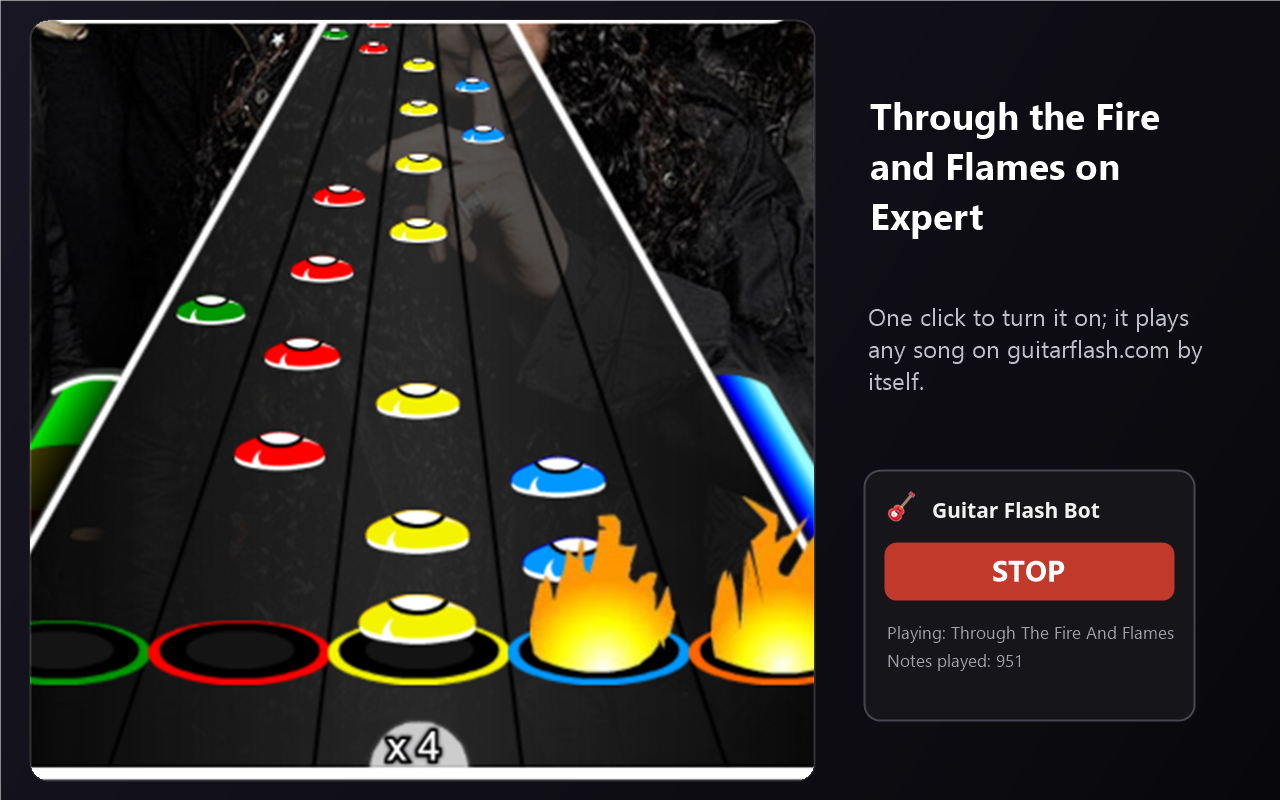
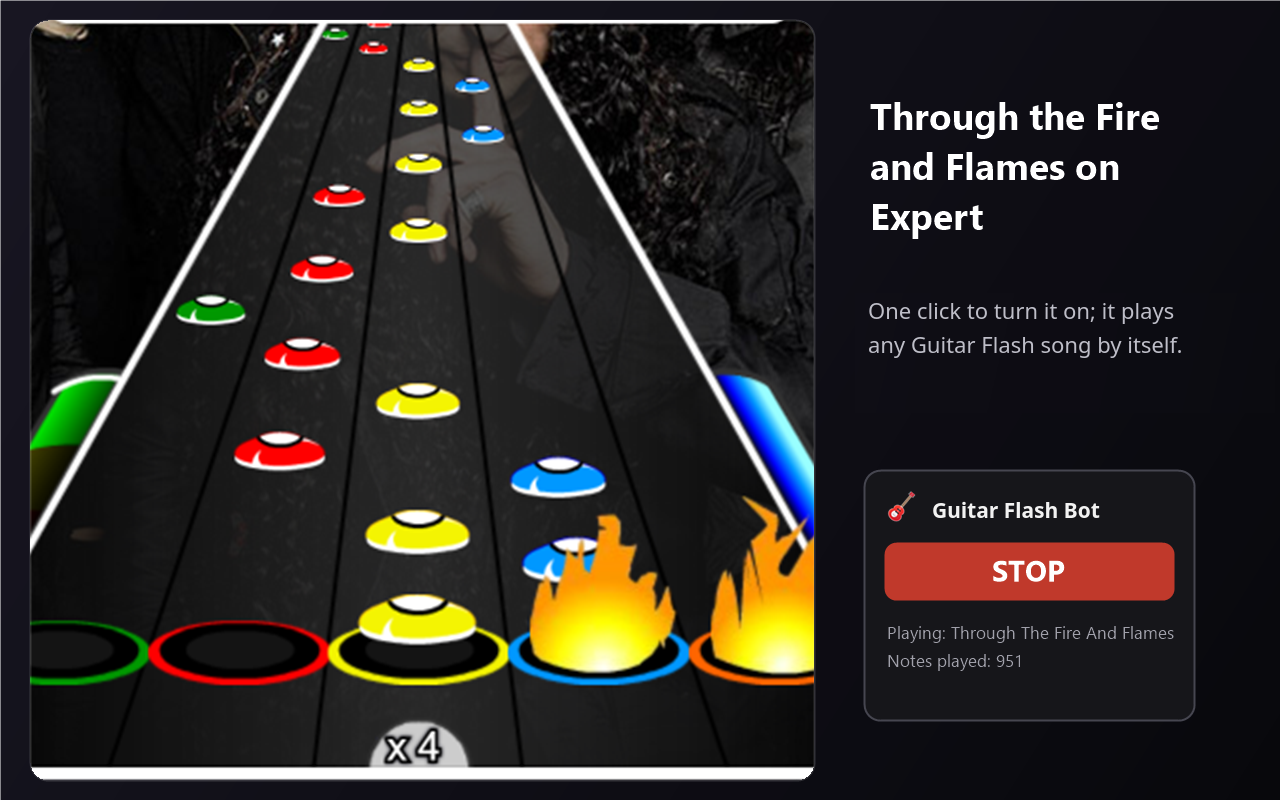
v1.2.4: aviso do Brave curto e sem fundo; textos sem o endereço do site
- Popup: aviso do Brave vira uma linha discreta ("se não funcionar, ...") no lugar da caixa amarela.
- Textos da extensão, README, loja e privacidade falam só "Guitar Flash", sem o endereço do site.
- Legenda da screenshot 2 (pt/en) refeita sem o endereço.
- O manifest mantém o domínio: é o que limita a extensão ao jogo.

Changed region(s): [[0.6562, 0.375, 0.9375, 0.5]]

diff --git a/extension/gfbot.js b/extension/gfbot.js
@@ -1,4 +1,4 @@
-// Guitar Flash Bot - runs inside the guitarflash.com page (MAIN world).
+// Guitar Flash Bot - runs inside the Guitar Flash game page (MAIN world).
 // Controlled by the extension (bridge.js) through window.postMessage: {source:'gfbot-ext', cmd:'start'|'stop'}.
 //
 // How it works ("scene reader"):
@@ -476,7 +476,7 @@
   // Brave's fingerprinting protection (Shields, on by default) slightly changes what a page reads back from canvas and
   // audio. The game now uses those reads before it unlocks a song's notes, so with the protection on every song ends at
   // once with 0 notes ("You Rock", 0/0). The bot cannot change Shields; it detects the case so the popup can explain
-  // how to turn it off for guitarflash.com. Test: paint a solid colour and read it back - unchanged without the protection.
+  // how to turn it off for the game. Test: paint a solid colour and read it back - unchanged without the protection.
   function fingerprintBlocked() {
     try {
       if (!navigator.brave) return false;

diff --git a/extension/popup.html b/extension/popup.html
@@ -16,8 +16,7 @@
   #history:hover { background:#30303a; }
   .status { margin-top:12px; color:var(--muted); font-size:13px; min-height:54px; }
   .status b { color:var(--fg); }
-  .warn { margin-top:12px; padding:10px; border-radius:10px; background:#3a2a10; border:1px solid #a8741a; color:#ffd58a; font-size:12px; line-height:1.45; }
-  .warn b { color:#fff; }
+  .warn { margin:-4px 0 10px; font-size:12px; color:var(--muted); }
   .hint { margin-top:10px; font-size:12px; color:var(--muted); }
   footer { margin-top:12px; padding-top:10px; border-top:1px solid var(--line); font-size:11px; color:var(--muted); text-align:center; }
   footer b { color:var(--fg); }

diff --git a/extension/popup.js b/extension/popup.js
@@ -16,7 +16,7 @@ function line(label, value) { const d = document.createElement('div'); d.textCon
 function render(status) {
   // Brave fingerprinting protection on: the game cannot load the notes (see gfbot.js fingerprintBlocked)
   warn.hidden = !(status && status.fpBlocked);
-  if (!warn.hidden) { warn.replaceChildren(Object.assign(document.createElement('b'), { textContent: t('braveFpTitle') }), document.createElement('br'), t('braveFpFix')); }
+  if (!warn.hidden) warn.textContent = t('braveFpFix');
   btn.textContent = enabled ? t('stop') : t('start');
   btn.className = enabled ? 'stop' : 'start';
   st.replaceChildren();

diff --git a/store/LISTING.md b/store/LISTING.md
@@ -13,11 +13,11 @@ Primary language: Portuguese (Brazil); English translation below.
 Joga Guitar Flash por você: acerta as notas, acordes e notas longas, sem apertos errados. Liga e desliga com um clique.
 
 **Descrição:**
-O Guitar Flash Bot toca as músicas do Guitar Flash (guitarflash.com) sozinho, nota por nota.
+O Guitar Flash Bot toca as músicas do Guitar Flash sozinho, nota por nota.
 
 Como usar:
 1. Clique no ícone da extensão e aperte START.
-2. Abra qualquer música no guitarflash.com e aperte uma tecla para começar.
+2. Abra qualquer música no Guitar Flash e aperte uma tecla para começar.
 3. Assista: o bot acerta as notas, os acordes e segura as notas longas até o fim.
 4. Quando quiser parar, clique em STOP. Ao abrir o navegador, ele começa sempre desligado.
 
@@ -25,11 +25,11 @@ Destaques:
 • Acerta praticamente todas as notas, sem apertos errados (overstrums), inclusive no Expert.
 • Testado em músicas difíceis como Through the Fire and Flames (DragonForce): 99% no Expert.
 • Funciona em qualquer música e troca de música automaticamente.
-• Leve: roda só na página do guitarflash.com e não coleta nenhum dado.
+• Leve: roda só na página do Guitar Flash e não coleta nenhum dado.
 
 Como funciona: a extensão observa a pista do jogo na própria página e aperta as teclas no momento certo, sincronizada com o tempo da música.
 
-No Brave: desative o bloqueio de fingerprinting dos Shields para o guitarflash.com (leão na barra de endereço → controles avançados). Com ele ligado, o próprio site não carrega as notas e as músicas terminam na hora, com ou sem o bot; a extensão avisa no popup quando isso acontece.
+No Brave: se as músicas terminarem sem notas, clique no leão da barra de endereço e desative o bloqueio de fingerprinting.
 
 Aviso: projeto independente, sem vínculo com o Guitar Flash. Use para diversão; por favor, não envie pontuações do bot para o ranking do site.
 
@@ -45,11 +45,11 @@ Aviso: projeto independente, sem vínculo com o Guitar Flash. Use para diversão
 Plays Guitar Flash for you: hits the notes, chords and sustains with no overstrums. Turn it on and off with one click.
 
 **Description:**
-Guitar Flash Bot plays Guitar Flash (guitarflash.com) songs by itself, note by note.
+Guitar Flash Bot plays Guitar Flash songs by itself, note by note.
 
 How to use:
 1. Click the extension icon and press START.
-2. Open any song on guitarflash.com and press a key to begin.
+2. Open any song on Guitar Flash and press a key to begin.
 3. Watch: the bot hits the notes and chords and holds sustains to the end.
 4. Press STOP whenever you want. It always starts switched off when the browser opens.
 
@@ -57,11 +57,11 @@ Highlights:
 • Hits virtually every note with no overstrums, even on Expert.
 • Tested on hard songs such as Through the Fire and Flames (DragonForce): 99% on Expert.
 • Works on any song and follows you when you change songs.
-• Lightweight: runs only on guitarflash.com and collects no data.
+• Lightweight: runs only on the Guitar Flash page and collects no data.
 
 How it works: the extension watches the game's note highway on the page itself and presses the keys at the right moment, synchronized with the song's clock.
 
-On Brave: turn off Shields' fingerprinting blocking for guitarflash.com (lion in the address bar → advanced controls). With it on, the site itself cannot load the notes and songs end right away, with or without the bot; the extension shows a warning in its popup when this happens.
+On Brave: if songs end with no notes, click the lion in the address bar and turn off fingerprinting blocking.
 
 Disclaimer: independent project, not affiliated with Guitar Flash. Use it for fun; please don't submit bot scores to the site's rankings.
 
@@ -72,16 +72,16 @@ Disclaimer: independent project, not affiliated with Guitar Flash. Use it for fu
 ## Answers for the review forms
 
 **Single purpose (Chrome):**
-Automatically plays the browser game Guitar Flash (guitarflash.com) when the user turns it on.
-/ Joga automaticamente o jogo de navegador Guitar Flash (guitarflash.com) quando o usuário liga.
+Automatically plays the browser game Guitar Flash when the user turns it on.
+/ Joga automaticamente o jogo de navegador Guitar Flash quando o usuário liga.
 
 **Permission justifications:**
 - `storage`: saves whether the bot is on/off and the status shown in the popup.
-- Host permission `https://guitarflash.com/*`: the extension only works on the Guitar Flash page, where it reads the game's canvas and sends the game keys (A S J K L).
+- Host permission (Guitar Flash site): the extension only works on the Guitar Flash page, where it reads the game's canvas and sends the game keys (A S J K L).
 - No remote code: all code ships inside the package; nothing is downloaded or evaluated at runtime.
 
 **Data usage (Chrome "Privacy practices" / Firefox data collection):**
 Does not collect or transmit any user data. Declare "No data collected" / Firefox: `data_collection_permissions: none`.
 
 **Notes to reviewer (optional):**
-To test: open https://guitarflash.com, click the extension icon and press START, pick any song (e.g. "Through The Fire And Flames") and press any key to start it. The bot plays the song by itself; press STOP to end. No account is needed.
+To test: open the Guitar Flash game in the browser, click the extension icon and press START, pick any song (e.g. "Through The Fire And Flames") and press any key to start it. The bot plays the song by itself; press STOP to end. No account is needed.

diff --git a/README.md b/README.md
@@ -2,7 +2,7 @@
 
 > Desenvolvido por **pwn3ed** · Licença [MIT](LICENSE)
 
-Extensão de navegador que joga Guitar Flash (guitarflash.com) sozinha: acha as notas na tela, aperta as
+Extensão de navegador que joga Guitar Flash sozinha: acha as notas na tela, aperta as
 teclas no momento certo (sincronizado com o relógio do vídeo do YouTube) e segura as notas longas.
 Guarda um histórico de todas as músicas tocadas (acertos, erros, overstrums, combo, pontuação).
 Funciona em Chrome, Edge, Brave, Opera e Firefox, em qualquer sistema (Windows, Linux, macOS).
@@ -56,7 +56,7 @@ No Firefox: `about:debugging#/runtime/this-firefox` → **Carregar extensão tem
 
 ## Usar
 1. Clique no ícone → **START** (o ícone mostra "ON").
-2. Abra uma música no guitarflash.com e aperte uma tecla (Enter) para começar. O bot segue quando você troca de música.
+2. Abra uma música no Guitar Flash e aperte uma tecla (Enter) para começar. O bot segue quando você troca de música.
    Comece com o teclado, não com clique do mouse: o jogo pode contar o clique como um overstrum antes da primeira nota.
 3. **STOP** para parar. Fechar o navegador também para, e ele sempre abre desligado.
 
@@ -66,10 +66,8 @@ Observações: a aba do jogo e a **janela do navegador** precisam ficar visívei
 coberta por outra, o navegador reduz a página a ~2 quadros por segundo e o bot não consegue jogar.
 Se você estiver logado no site, as pontuações vão para o ranking.
 
-**Brave:** com a proteção contra fingerprinting dos Shields ligada (padrão do Brave), o guitarflash.com não consegue
-carregar as notas e toda música termina na hora com 0 notas ("You Rock", Special 0/0), **mesmo sem a extensão**:
-o jogo lê canvas/áudio antes de liberar as notas e o Brave altera essas leituras. Correção: no guitarflash.com, leão (Shields)
-→ controles avançados → desativar o bloqueio de fingerprinting só para o site, e recarregar. O popup avisa quando detecta isso
+**Brave:** se as músicas terminarem na hora, sem notas, clique no leão da barra de endereço e desative o bloqueio de
+fingerprinting (o jogo não carrega as notas com ele ligado, mesmo sem o bot). O popup lembra disso no Brave
 (`fingerprintBlocked()` no `gfbot.js`).
 
 ## Depois de mudar o código

diff --git a/store/PRIVACY.md b/store/PRIVACY.md
@@ -4,7 +4,7 @@
 
 O Guitar Flash Bot não coleta, armazena, vende nem transmite dados pessoais ou de uso.
 
-- A extensão roda apenas nas páginas de https://guitarflash.com.
+- A extensão roda apenas na página do jogo Guitar Flash.
 - Ela lê a imagem do jogo na própria página, localmente, só para saber quando apertar as teclas. Nada sai do seu computador.
 - Ela guarda localmente, no armazenamento da extensão, apenas se o bot está ligado ou desligado e o status mostrado no popup.
 - Não há servidores, contas, cookies próprios, rastreamento ou anúncios.
@@ -19,7 +19,7 @@ Dúvidas: entre em contato pelo e-mail informado na página da extensão na loja
 
 Guitar Flash Bot does not collect, store, sell or transmit any personal or usage data.
 
-- The extension runs only on https://guitarflash.com pages.
+- The extension runs only on the Guitar Flash game page.
 - It reads the game's image on the page itself, locally, only to know when to press the keys. Nothing leaves your computer.
 - It stores locally, in extension storage, only whether the bot is on or off and the status shown in the popup.
 - There are no servers, accounts, own cookies, tracking or ads.
